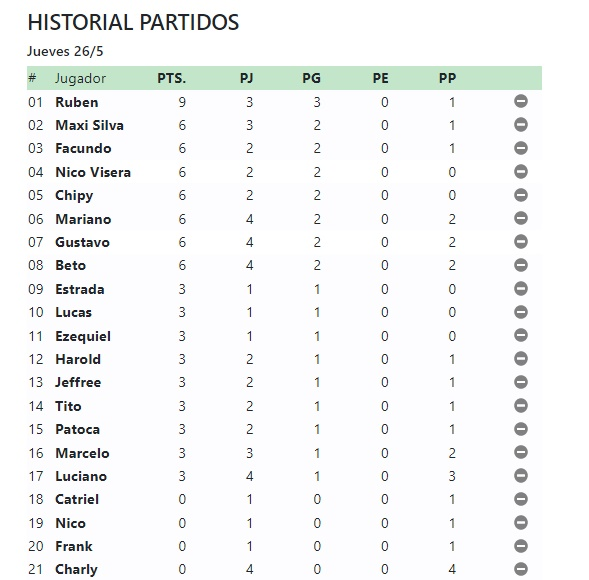
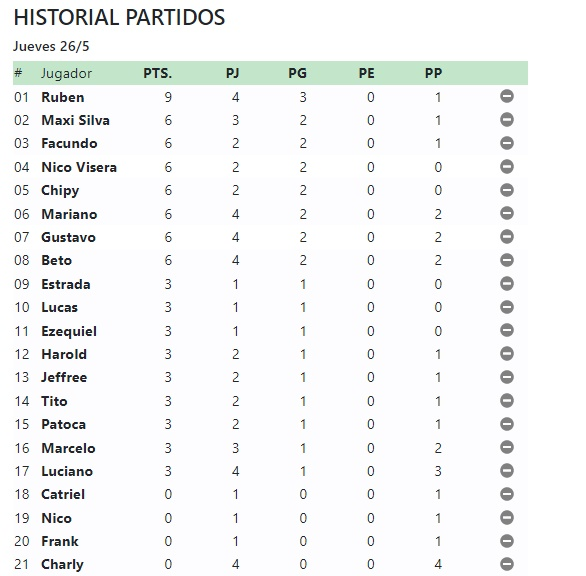
Fecha 4

diff --git a/Partidos/Partidos Fecha 4.htm b/Partidos/Partidos Fecha 4.htm
@@ -49,7 +49,7 @@
 		<td>01</td>
 		<th scope="row">Ruben</th>
 		<td class="flotante">9</td>
-		<td class="flotante">3</td>
+		<td class="flotante">4</td>
 		<td class="flotante">3</td>
 		<td class="flotante">0</td>
 		<td class="flotante">1</td>
@@ -267,22 +267,22 @@
 	</tr>		
 	xx
 Ruben		xx
-Braian		xx
+Beto	xx
 Mariano	    xx
 Gustavo  	xx
-Max Silva
+Chypy
 Tito
 
 ----------
 
 Luciano		xx
 Harold		xx
-Jeffree	xx		xx
-Beto		xx
-El 8		xx
-Nico
+Jeffree		xx
+Charly		xx
+Marcelo		xx
+Ruso
 
-5-8
+9-7
 
 		
       </tr> !--> 

diff --git a/Partidos/Partidos Fecha 2.htm b/Partidos/Partidos Fecha 2.htm
@@ -49,7 +49,7 @@
 		<td>01</td>
 		<th scope="row">Ruben</th>
 		<td class="flotante">6</td>
-		<td class="flotante">2</td>
+		<td class="flotante">3</td>
 		<td class="flotante">2</td>
 		<td class="flotante">0</td>
 		<td class="flotante">1</td>
